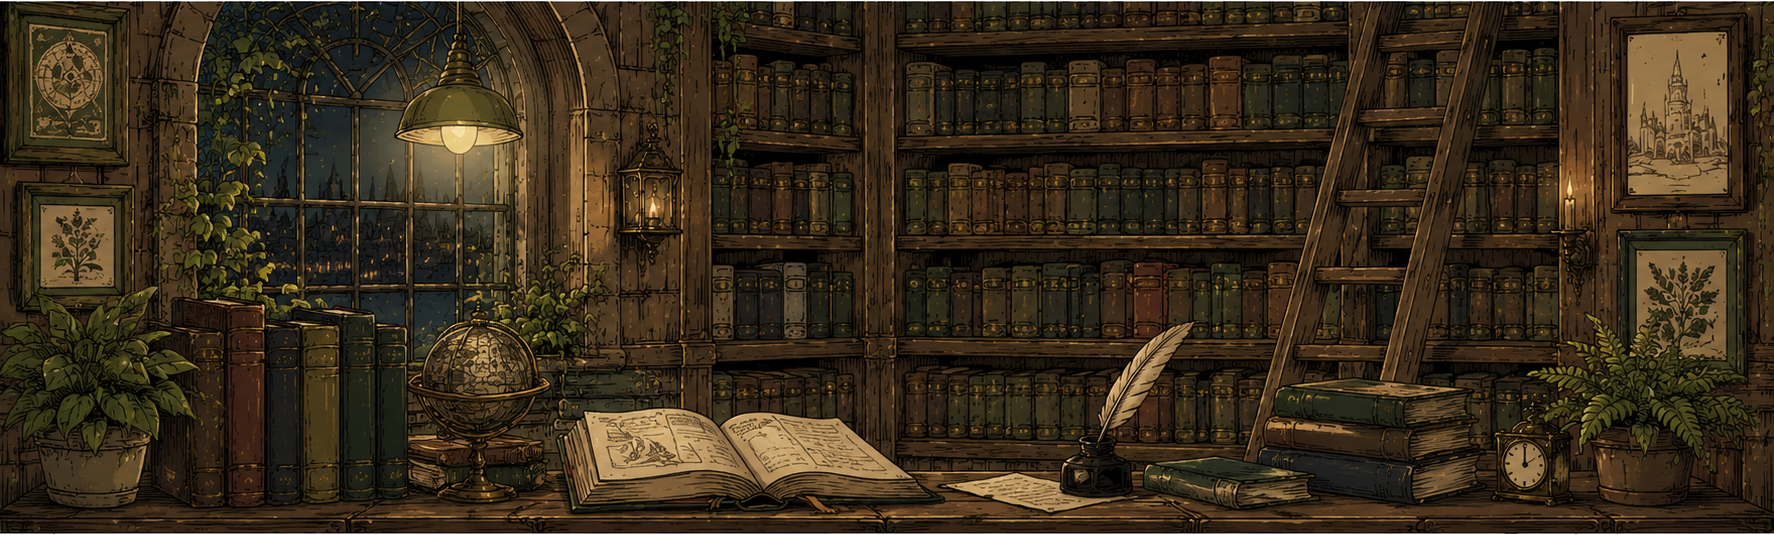
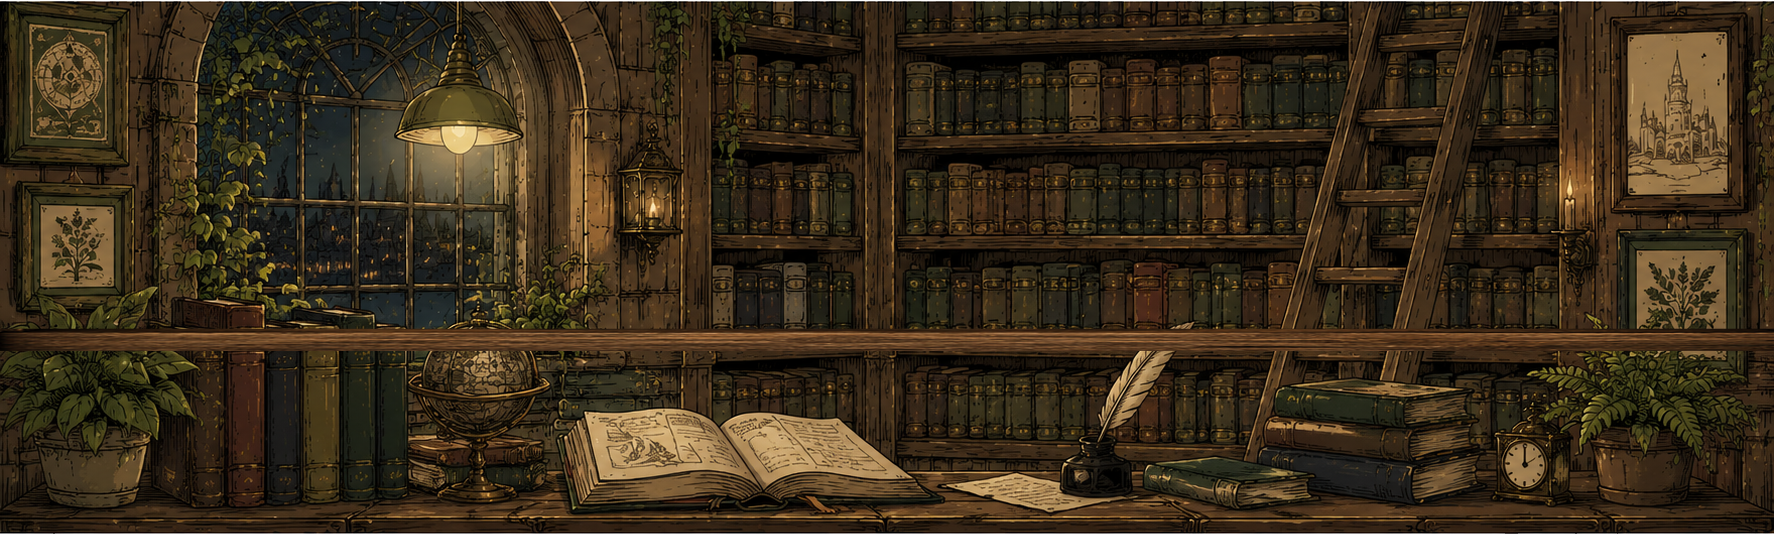
eddited member_info.html

Changed region(s): [[0.0, 0.5981, 1.0, 0.6579]]

diff --git a/templates/member_info.html b/templates/member_info.html
@@ -23,7 +23,7 @@
 
         <!-- ΑΡΙΣΤΕΡΗ ΣΤΗΛΗ -->
 
-        <div class="col-md-4">
+        <div class="col-md-8">
 
             <div class="member-preview-card">
 
@@ -51,68 +51,69 @@
 
             </div>
 
-            <br>
 
-            <h4>
-
-                Συνολικό Υπόλοιπο:
-
-            </h4>
-
-            <h3>
-
-                {{ member.balance }} €
-
-            </h3>
 
         </div>
 
         <!-- ΔΕΞΙΑ ΣΤΗΛΗ -->
 
-        <div class="col-md-8">
+        <div class="col-md-4">
 
-            <div class="mb-4">
+            <div class="member-info-panel">
 
-                <label>
+                <div class="mb-3">
+                 
+                    <label>
+                        Ημερομηνία Γέννησης
+                    </label>
 
-                    Ημερομηνία Γέννησης
+                    <div class="member-info-text">
 
-                </label>
+                        {{ member.date_of_birth }}
+                        
+                    </div>
 
-                <input
-                    class="form-control"
-                    value="{{ member.date_of_birth }}"
-                    readonly>
+                <div class="mb-2">
 
-            </div>
+                    <label>
+                        Τηλέφωνο
+                    </label>
 
-            <div class="mb-4">
+                    <div class="member-info-text">
 
-                <label>
+                        {{ member.phone }}
 
-                    Τηλέφωνο
+                    </div>
 
-                </label>
+                </div>
 
-                <input
-                    class="form-control"
-                    value="{{ member.phone }}"
-                    readonly>
+                <div class="mb-3">
 
-            </div>
+                    <label>
+                        Διεύθυνση Κατοικίας
+                    </label>
 
-            <div class="mb-4">
+                    <div class="member-info-text">
 
-                <label>
+                        {{ member.address }}
 
-                    Διεύθυνση Κατοικίας
+                    </div>
 
-                </label>
+                </div>
 
-                <input
-                    class="form-control"
-                    value="{{ member.address }}"
-                    readonly>
+                <br><br>
+
+                <h4>
+
+                    Συνολικό Υπόλοιπο:
+
+                </h4>
+
+                <h3>
+
+                    {{ member.balance }} €
+
+                </h3>
 
             </div>
 

diff --git a/static/css/style.css b/static/css/style.css
@@ -6,6 +6,7 @@ body {
     background-image: url("../images/background.png");
     background-size: 100%;
     background-position: center;
+    font-family: "EB Garamond", serif;
 
 }
 
@@ -392,6 +393,69 @@ input[type="number"] {
     letter-spacing: 9px;
     font-family: monospace;
     
+    transform: translateX(-50%);
+
+}
+
+/* member info panel */
+
+.member-info-panel {
+
+    width: 570px;
+    height: 400px;
+
+    background-image: url("../images/member-info-panel.png");
+
+    background-size: 100% 100%;
+    background-repeat: no-repeat;
+    background-position: center;
+
+    padding: 40px;
+
+    margin-left: -150px;
+    margin-top: 7px;  
+
+}
+
+
+.member-info-text {
+
+    color: #351B04;
+    margin-left: 250px;
+     margin-top: -5px;
+    text-align: center;
+    font-size: 20px;
+    width: 400px;
+    color: #131110;
+    
+    transform: translateX(-50%);
+
+}
+
+.member-info-panel label {
+
+    margin-left: 250px;
+
+    font-size: 14px;
+
+    color: #726c6a;
+
+    transform: translateX(-50%);   
+    
+
+}
+
+.member-info-panel h4 {
+    
+    margin-left: 265px;
+    margin-top: 10px;
+    transform: translateX(-50%);
+
+}
+
+.member-info-panel h3 {
+
+    margin-left: 320px;
     transform: translateX(-50%);
 
 }